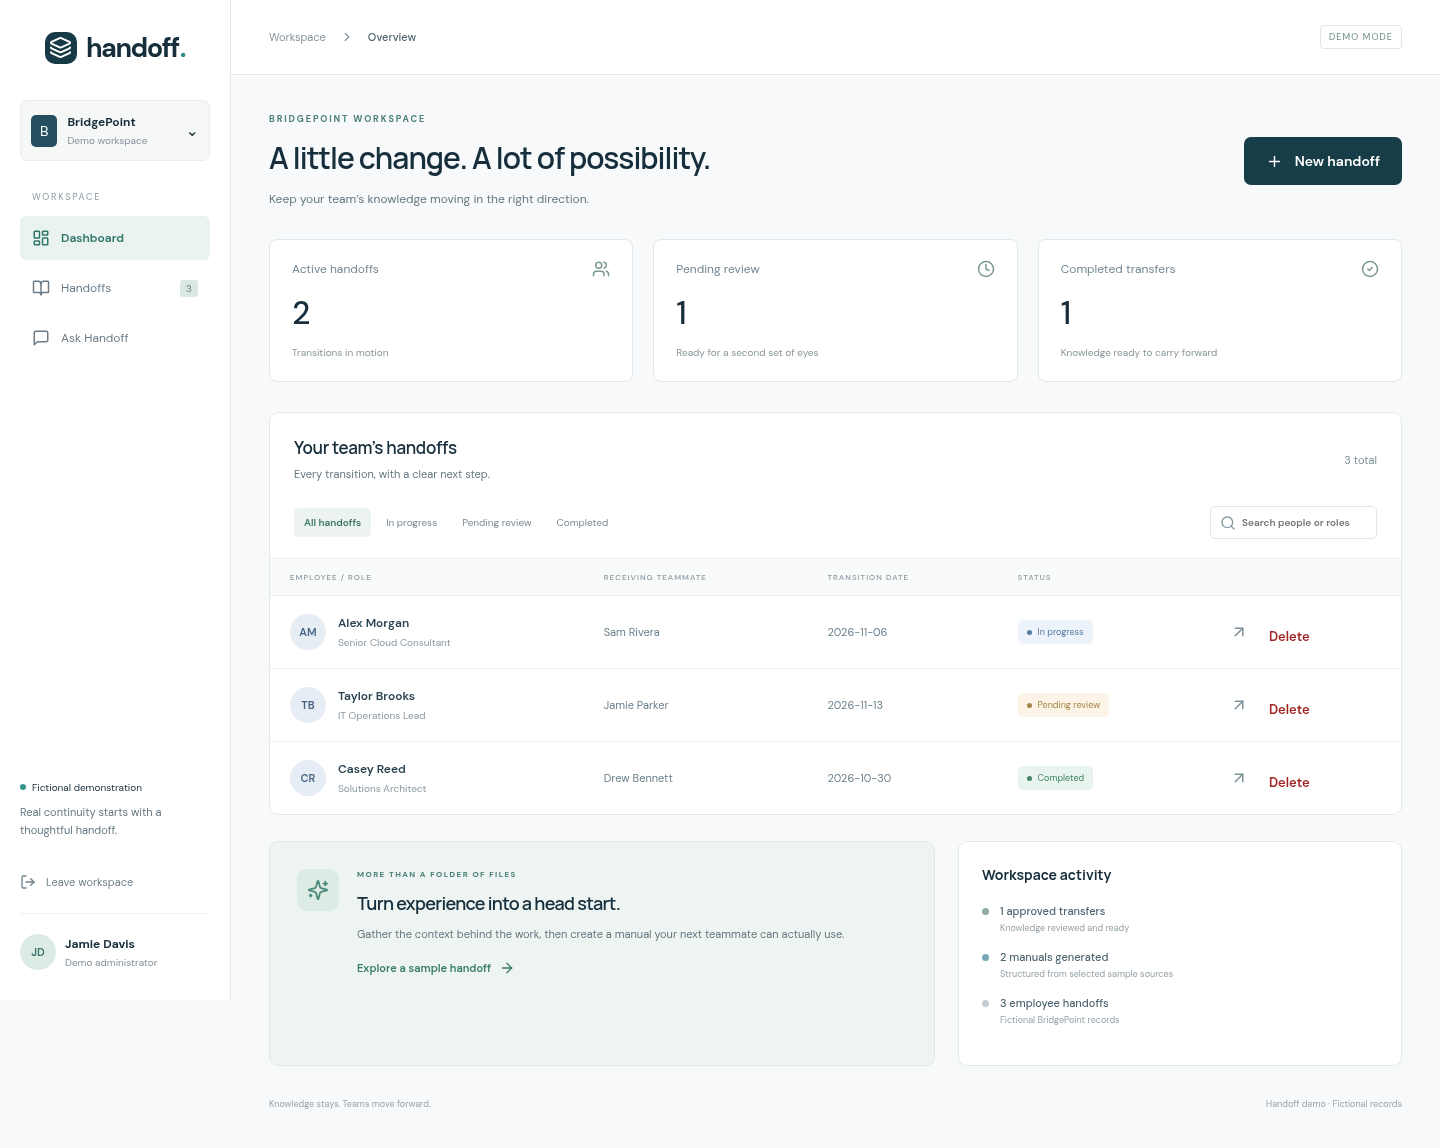
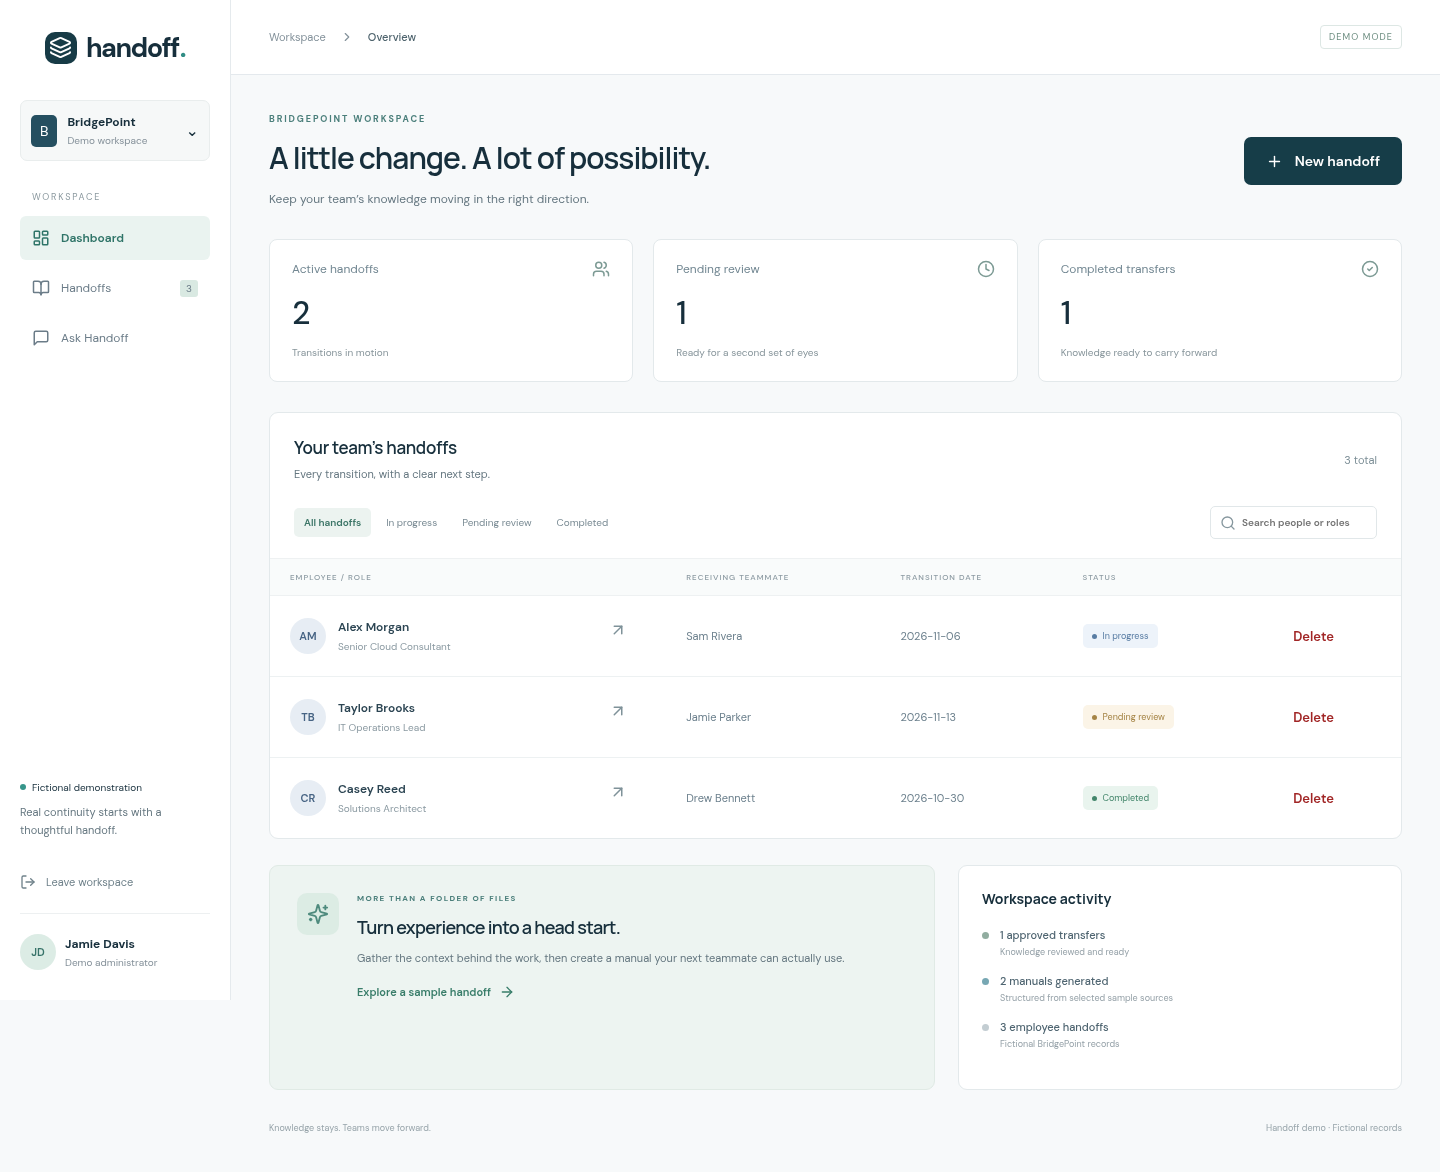
Separate handoff open controls from deletion and document Gemini findings

diff --git a/src/main.tsx b/src/main.tsx
@@ -954,22 +954,31 @@ function App() {
                             .map((i) => (
                               <tr key={i.id}>
                                 <td>
-                                  <button
-                                    className="person-button"
-                                    onClick={() => open(i.id)}
-                                  >
-                                    <span className="avatar blue">
-                                      {i.name
-                                        .split(" ")
-                                        .map((n) => n[0])
-                                        .slice(0, 2)
-                                        .join("")}
-                                    </span>
-                                    <span>
-                                      <b>{i.name}</b>
-                                      <small>{i.role}</small>
-                                    </span>
-                                  </button>
+                                  <div className="handoff-open-controls">
+                                    <button
+                                      className="person-button"
+                                      onClick={() => open(i.id)}
+                                    >
+                                      <span className="avatar blue">
+                                        {i.name
+                                          .split(" ")
+                                          .map((n) => n[0])
+                                          .slice(0, 2)
+                                          .join("")}
+                                      </span>
+                                      <span>
+                                        <b>{i.name}</b>
+                                        <small>{i.role}</small>
+                                      </span>
+                                    </button>
+                                    <button
+                                      className="icon-button"
+                                      aria-label={"Open " + i.name + " handoff"}
+                                      onClick={() => open(i.id)}
+                                    >
+                                      <ArrowUpRight size={18} />
+                                    </button>
+                                  </div>
                                 </td>
                                 <td>{i.recipient}</td>
                                 <td>{i.due}</td>
@@ -989,13 +998,6 @@ function App() {
                                   </span>
                                 </td>
                                 <td>
-                                  <button
-                                    className="icon-button"
-                                    aria-label={"Open " + i.name + " handoff"}
-                                    onClick={() => open(i.id)}
-                                  >
-                                    <ArrowUpRight size={18} />
-                                  </button>
                                   <button className="text-link danger" disabled={deleting||importing} aria-label={"Delete " + i.name + " handoff"} onClick={()=>removeHandoff(i)}>Delete</button>
                                 </td>
                               </tr>

diff --git a/tests/handoff-controls.spec.ts b/tests/handoff-controls.spec.ts
@@ -1,0 +1,14 @@
+import {test,expect} from '@playwright/test';
+test('handoff name and nearby arrow open the handoff, with Delete in a separate cell',async({page})=>{
+ await page.goto('./');await page.getByRole('button',{name:'Explore the demo'}).click();await page.getByRole('button',{name:'Enter demo workspace'}).click();
+ const name=page.getByRole('button',{name:'Alex Morgan Senior Cloud Consultant'});
+ const arrow=page.getByRole('button',{name:'Open Alex Morgan handoff'});
+ const remove=page.getByRole('button',{name:'Delete Alex Morgan handoff'});
+ const a=await arrow.boundingBox(),d=await remove.boundingBox();
+ expect(a).toBeTruthy();expect(d).toBeTruthy();expect(d!.x-(a!.x+a!.width)).toBeGreaterThan(48);
+ await name.getByText('Alex Morgan',{exact:true}).click();
+ await expect(page.getByRole('heading',{name:/Alex Morgan/})).toBeVisible();
+ await page.getByRole('button',{name:'All handoffs',exact:true}).click();
+ await page.getByRole('button',{name:'Open Alex Morgan handoff'}).click();
+ await expect(page.getByRole('heading',{name:/Alex Morgan/})).toBeVisible();
+});

diff --git a/src/style.css b/src/style.css
@@ -1787,3 +1787,8 @@ dd {
 @media(max-width:640px){.organization-row{grid-template-columns:1fr}.organization-panel{padding:14px}}
 
 .danger {color:#a12626;margin-left:14px;}
+
+.handoff-open-controls {display:flex;align-items:center;gap:20px;}
+.handoff-open-controls .person-button {flex:1;text-align:left;}
+.handoff-open-controls .person-button:hover b {text-decoration:underline;text-underline-offset:4px;}
+.handoff-open-controls .icon-button {flex-shrink:0;min-width:44px;min-height:44px;}

diff --git a/docs/GEMINI-DIAGNOSTIC-REVIEW.md b/docs/GEMINI-DIAGNOSTIC-REVIEW.md
@@ -1,0 +1,18 @@
+# Gemini and file diagnostic review
+
+Reviewed October 21, 2026. Investigation only: Gemini behavior and importer behavior have not been changed pending user approval.
+
+Confirmed with synthetic requests to the Worker (mock provider, no real model calls):
+- Nine uploaded files in a summary request fail before any provider request. The importer/organizer supports 20 files, but summary/manual/answer permits eight uploaded files. Select all can exceed that limit; frontend preflight does not check the count.
+- An immediate provider network exception returns the same 504 timeout message as an expired request. The current message does not establish that a timeout actually happened.
+- Provider HTTP 400, 403, 404 and 503 responses produce the same generic 502 message. Model/input problems, permission problems, and temporary provider failures cannot be distinguished in the interface.
+
+Code findings:
+- Provider request deadline is 25 seconds; browser deadline is 35 seconds. Complex documents may exceed this, but no live timing evidence was available to establish the cause of the user's failed request.
+- Failed provider attempts count against the existing global 10-attempt UTC daily ceiling. Retries are manual. A free Google quota rejection has a separate 429 response.
+- Files are limited to 8 MB, PDFs/images to 3 MB individually and combined per AI request; text is limited to 120,000 extracted characters individually and combined. Imports reject non-UTF-8 plain text/CSV, password-protected PDFs, unsupported formats, and oversized Office expansions. Some normal business exports therefore cannot be imported even before Gemini is involved.
+- Gemini model is configured as `gemini-3.8-flash`. Its availability for the owner's account was not independently verified; do not substitute a model without checking account support.
+
+Suggested changes for approval: frontend preflight that explains operation-specific limits; safe, distinct timeout/network/quota/model/permission/provider errors without exposing provider bodies or credentials; a longer bounded request deadline with matching browser deadline and full response-body handling; explicitly detected UTF-16 text/CSV decoding, retaining errors for ambiguous encodings. Preserve existing quota, size limits, no automatic retries, and no billing changes. These changes improve diagnosis and supported inputs but cannot guarantee real model availability or eliminate free-tier quota limits.
+
+The execution network returned a proxy CONNECT 403 for the live Worker health URL. That is a restriction on this diagnostic environment, not evidence that the deployed Worker itself rejected the user's request. No real documents or secrets were sent during this investigation.
